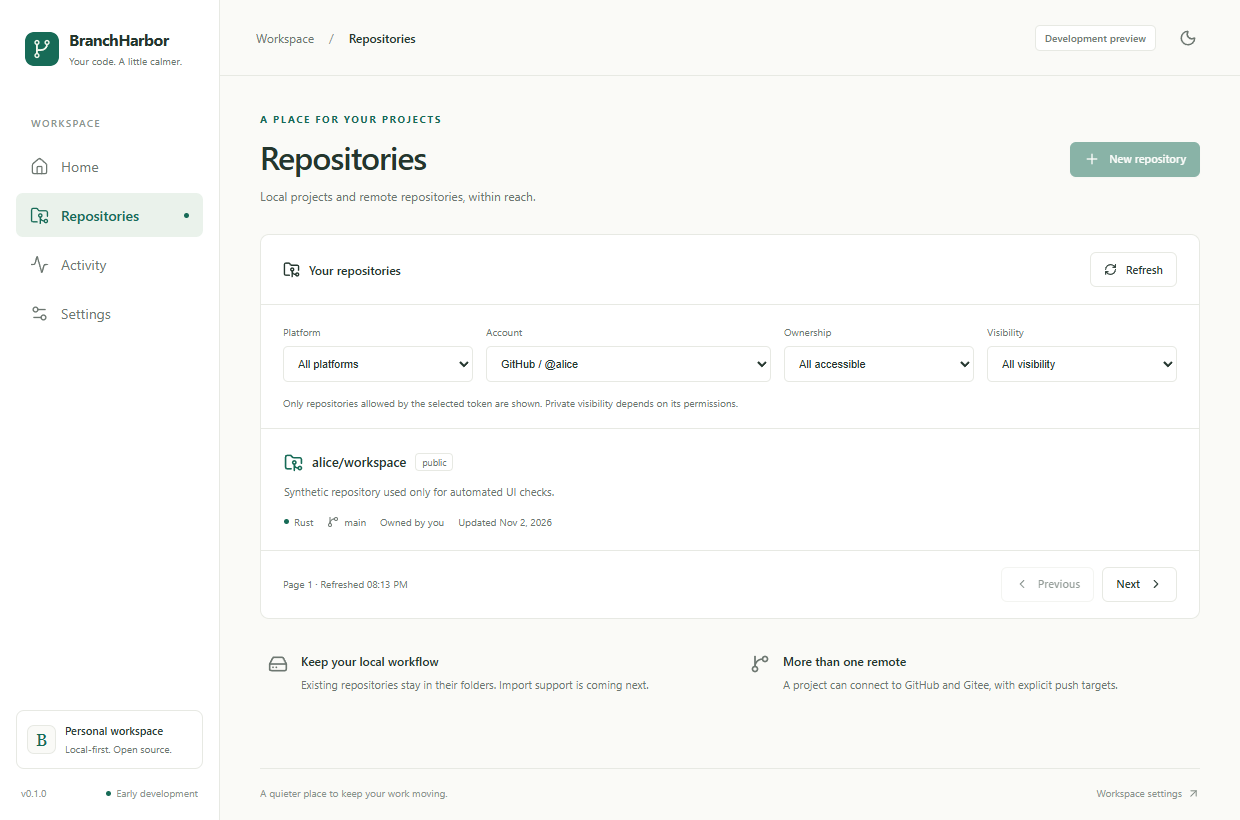
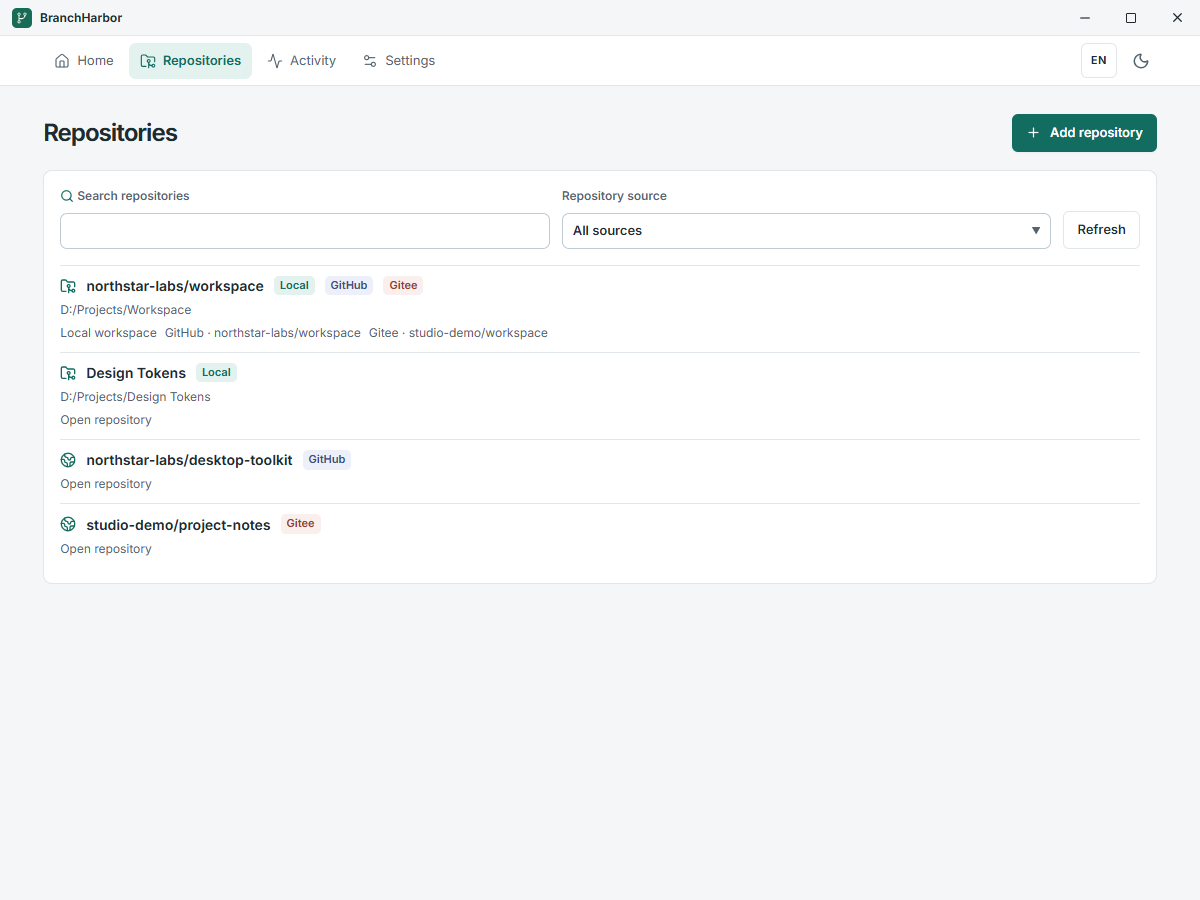
docs: explain the project purpose and refresh screenshots

diff --git a/README.md b/README.md
@@ -2,27 +2,32 @@
 
 A lightweight desktop workspace for GitHub, Gitee, and local Git repositories.
 
-BranchHarbor is being designed to bring repository browsing, everyday Git operations, pull requests,
-issues, and personal activity into a desktop interface. GitHub and Gitee contribution sources appear
-in separate cards.
+BranchHarbor started with a simple goal: bring the repositories you access on GitHub and Gitee
+together with the Git repositories on your computer. One desktop workspace lets you find a
+repository, open its local working tree or remote view, and pick up where you left off. It also
+brings everyday Git operations, pull requests, issues, and recent activity into the same workspace.
 
 ## Project status
 
 The repository provides a runnable Tauri/Vue application shell with Home, Repositories, Activity,
 and Settings; light/dark/system appearance; local quality checks; and a cross-platform CI workflow.
+The Windows title bar follows the app's appearance setting.
+
 The desktop app connects GitHub/Gitee accounts with personal access tokens, stores credentials in
-the OS credential store, and loads paginated repository lists with account and visibility filters.
+the OS credential store, and loads a paginated catalog with repository search and source filters.
 The read-only repository explorer adds details, branch selection, directories, and bounded text
 previews with syntax highlighting. The workspace adds expandable file trees, local commit history,
-and an English or Simplified Chinese UI preference. Pull requests and Issues offer read-only lists,
-state filters, details, and paginated discussion comments. Home prioritizes recent local
-repositories and today's commits, with platform summaries below. Activity contains the full GitHub
-calendar and Gitee public event sample. It opens on the current UTC date and supports earlier dates,
-manual refresh, and offline reading of previously refreshed provider data. The desktop app supports
-local repository import, creation, cloning, changes and diffs, staging, commits, branches, and
-synchronization with configured remotes. Live private-account verification and macOS/Linux
-credential-store runtime checks remain outstanding; see the
-[account guide](docs/provider-accounts.md). There are no signed public application releases.
+and an English or Simplified Chinese UI preference. Branches and tags can be browsed locally or
+through a connected platform. Configured Git remotes support live ref listings and confirmed
+deletion of a remote branch or tag. Pull requests and issues offer read-only lists, state filters,
+details, paginated discussion comments, and a link to open the item in a browser. Home highlights
+frequently used local and remote repositories and recent Activity across sources. Activity opens on
+a chronological timeline grouped by local date, with source, repository, and activity type filters.
+Settings shows the active data directory, supports relocating the SQLite databases on restart, and
+offers cache cleanup. The desktop app supports local repository import, creation, cloning, changes
+and diffs, staging, commits, branches, and synchronization with configured remotes. Live
+private-account verification and macOS/Linux credential-store runtime checks remain outstanding; see
+the [account guide](docs/provider-accounts.md). There are no signed public application releases.
 
 Windows x64 startup, native IPC, and NSIS test packaging have been verified locally. CI is
 configured for Windows x64, macOS ARM64/x64, and Linux x64. CI compilation and real installation
@@ -37,7 +42,7 @@ disposable local bootstrap scripts support Windows x64 only.
 - Browse files, branches, commit history, pull requests, and issues.
 - Import local repositories and associate them with multiple remotes.
 - Create repositories, inspect changes, commit, fetch, pull, push, and manage branches.
-- View dated activity and separate contribution calendars for each platform.
+- Browse recent local and platform activity grouped by date.
 - Keep common tasks focused, with details loaded and displayed when needed.
 
 Gitee contribution data access must be validated before promising parity with its website. See the
@@ -76,33 +81,34 @@ Read the [environment guide](docs/development-environment.md) first, including i
 isolation notes.
 
 In the desktop app, open **Settings > Connected accounts > Add account**, choose the platform, and
-verify a token. Then open **Repositories** to choose an account and browse its authorized
-repositories. Browser preview disables account connections. Read the
+verify a token. Then open **Repositories** to browse the joint catalog, search for a repository, or
+choose a source. Browser preview disables account connections. Read the
 [account guide](docs/provider-accounts.md) for token permissions, storage, recovery, and
 verification limits.
 
-Open **Repositories > Local repositories** to import a working tree, initialize a repository, or
-clone an existing remote. Read the [local Git guide](docs/local-git.md) for supported operations,
-remote targets, and validation.
+Open **Repositories > Add repository** to import a working tree, initialize a repository, or clone
+an existing remote in a dialog. Read the [local Git guide](docs/local-git.md) for supported
+operations, remote targets, and validation.
 
 ## Documentation
 
 Start with the [application scaffold guide](docs/application-scaffold.md) for commands, screenshots,
 implemented behavior, and validation limits.
 
-| Document                                                   | Purpose                                                                  |
-| ---------------------------------------------------------- | ------------------------------------------------------------------------ |
-| [Product requirements](docs/product-requirements.md)       | Scope, workflows, UI principles, and acceptance criteria                 |
-| [Architecture](docs/architecture.md)                       | Proposed technology, boundaries, and data model                          |
-| [Provider accounts](docs/provider-accounts.md)             | Account setup, repository discovery, security, and validation            |
-| [Repository explorer](docs/repository-explorer.md)         | Branch selection, pinned directory browsing, and text previews           |
-| [Local Git](docs/local-git.md)                             | Local working trees, commits, branches, and synchronization              |
-| [PR and Issue reader](docs/pr-issue-reader.md)             | Discussion lists, details, comments, provider differences, and limits    |
-| [Contribution sources](docs/contribution-sources.md)       | GitHub contribution counts, Gitee public events, and verification limits |
-| [Development environment](docs/development-environment.md) | Local tools, verification, and removal                                   |
-| [Branching and releases](docs/branching-and-releases.md)   | Branches, manual PR workflow, and planned delivery checks                |
-| [Roadmap](docs/roadmap.md)                                 | Completed work and implementation stages                                 |
-| [Contributing](CONTRIBUTING.md)                            | Language, commits, documentation, and validation                         |
+| Document                                                   | Purpose                                                               |
+| ---------------------------------------------------------- | --------------------------------------------------------------------- |
+| [Product requirements](docs/product-requirements.md)       | Scope, workflows, UI principles, and acceptance criteria              |
+| [Architecture](docs/architecture.md)                       | Proposed technology, boundaries, and data model                       |
+| [Provider accounts](docs/provider-accounts.md)             | Account setup, repository discovery, security, and validation         |
+| [Repository explorer](docs/repository-explorer.md)         | Branch selection, pinned directory browsing, and text previews        |
+| [Local Git](docs/local-git.md)                             | Local working trees, commits, branches, and synchronization           |
+| [PR and Issue reader](docs/pr-issue-reader.md)             | Discussion lists, details, comments, provider differences, and limits |
+| [Contribution sources](docs/contribution-sources.md)       | Activity coverage and contribution API research                       |
+| [Data and storage](docs/data-storage.md)                   | Database location, migration, cache cleanup, and recovery             |
+| [Development environment](docs/development-environment.md) | Local tools, verification, and removal                                |
+| [Branching and releases](docs/branching-and-releases.md)   | Branches, manual PR workflow, and planned delivery checks             |
+| [Roadmap](docs/roadmap.md)                                 | Completed work and implementation stages                              |
+| [Contributing](CONTRIBUTING.md)                            | Language, commits, documentation, and validation                      |
 
 ## Contributing
 

diff --git a/docs/application-scaffold.md b/docs/application-scaffold.md
@@ -26,8 +26,8 @@ test counts, screenshots, limits, and live-validation requirements.
 
 The [PR/Issue reader](pr-issue-reader.md) adds a lazy discussion route, repository task navigation,
 state-filtered lists, details, and paginated general comments. Its validation record supersedes the
-foundation-only test counts below. The [contribution dashboard](contribution-sources.md) adds a
-GitHub calendar, a Gitee public event sample, daily activity, and cached provider data.
+foundation-only test counts below. The [activity timeline](contribution-sources.md) combines local
+commits and public platform events by local date.
 
 The [local Git workspace](local-git.md) adds desktop repository registration, changes, commits,
 branches, and named-remote synchronization. Browser preview disables these native actions.
@@ -133,29 +133,34 @@ controls, panels, and pages. Light and dark themes use slate surfaces with teal 
 for additions, and red for removals. Diff prefixes and selection indicators remain available in both
 themes.
 
-The desktop window opens at 1080 × 700 logical pixels and can shrink to 720 × 560. Settings has an
-inset language row above the theme controls. The language menu opens when the user activates the
-control. Dropdowns use the browser's select behavior with theme colors when the webview supports
-customizable selects. Pages, scrollable panels, and dropdown menus share arrow-free scrollbars in
-WebView2. The track is transparent, and each theme uses a translucent slate-blue thumb that gains
-contrast on hover or drag. Forced-colors mode uses the system scrollbar.
+The desktop window opens at 1080 × 700 logical pixels and can shrink to 720 × 560. On Windows, the
+title bar uses the workspace font and follows Light, Dark, or System appearance. Drag the title area
+to move the window or double-click it to maximize or restore it. The window buttons provide
+minimize, maximize or restore, and close. Page scrolling starts below the title bar and main
+navigation. macOS and Linux use their native title bars.
 
-The top navigation uses one row at desktop widths and two rows in narrow windows. Home puts recent
-repositories first and shows today's local commits beside them when there is space. Repository rows
-share a 20 px content inset with the panel heading. Each row opens its repository, with the name
-above the path. The full path is available on hover. Provider summaries below the work panels lead
-to Activity for the full calendar or event sample.
+Settings has an inset language row above the theme controls. The language menu opens when the user
+activates the control. Dropdowns use the browser's select behavior with theme colors when the
+webview supports customizable selects. Pages, scrollable panels, and dropdown menus share arrow-free
+scrollbars in WebView2. The track is transparent, and each theme uses a translucent slate-blue thumb
+that gains contrast on hover or drag. Forced-colors mode uses the system scrollbar.
+
+The top navigation uses one row at desktop widths and two rows in narrow windows. Home shows
+frequently used repositories next to recent activity when there is space, with account summaries
+below. Repositories uses a single catalog with a modal for import, clone, and creation.
 
 The layout applies the [Fluent 2 spacing guidance](https://fluent2.microsoft.design/layout),
 [Impeccable](https://github.com/pbakaus/impeccable) principles for reducing visual noise, and the
 [Web Interface Guidelines](https://github.com/vercel-labs/web-interface-guidelines) for long text,
 keyboard focus, and responsive layout.
 
-The Home screenshots use sample repositories and commits. Settings uses the browser preview.
+The following previews show the Windows layout with sample accounts, repositories, and activity.
 
 ![Home in light mode](images/home-light.png)
 
 ![Home in dark mode](images/home-dark.png)
+
+![Activity grouped by local date](images/activity-light.png)
 
 ![Settings in light mode](images/settings-light.png)
 
